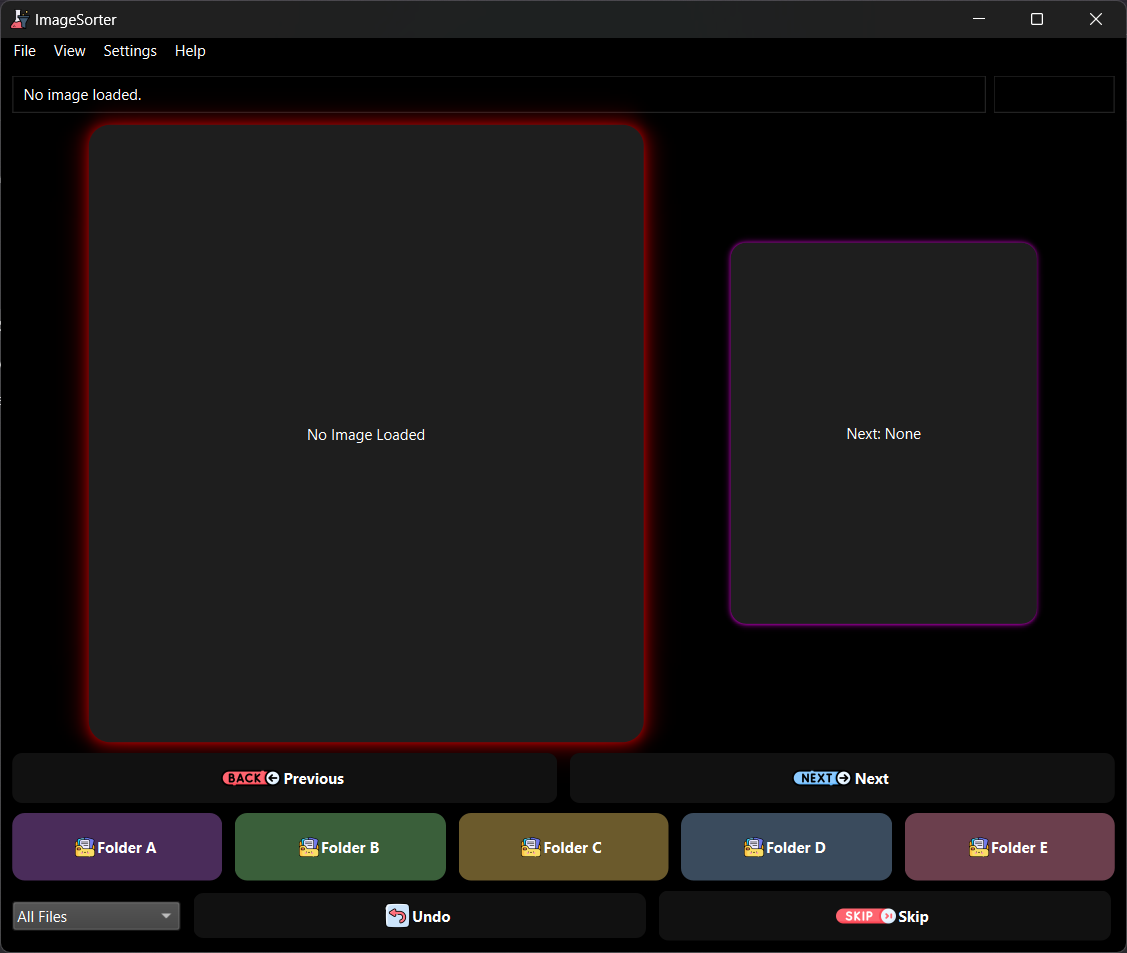
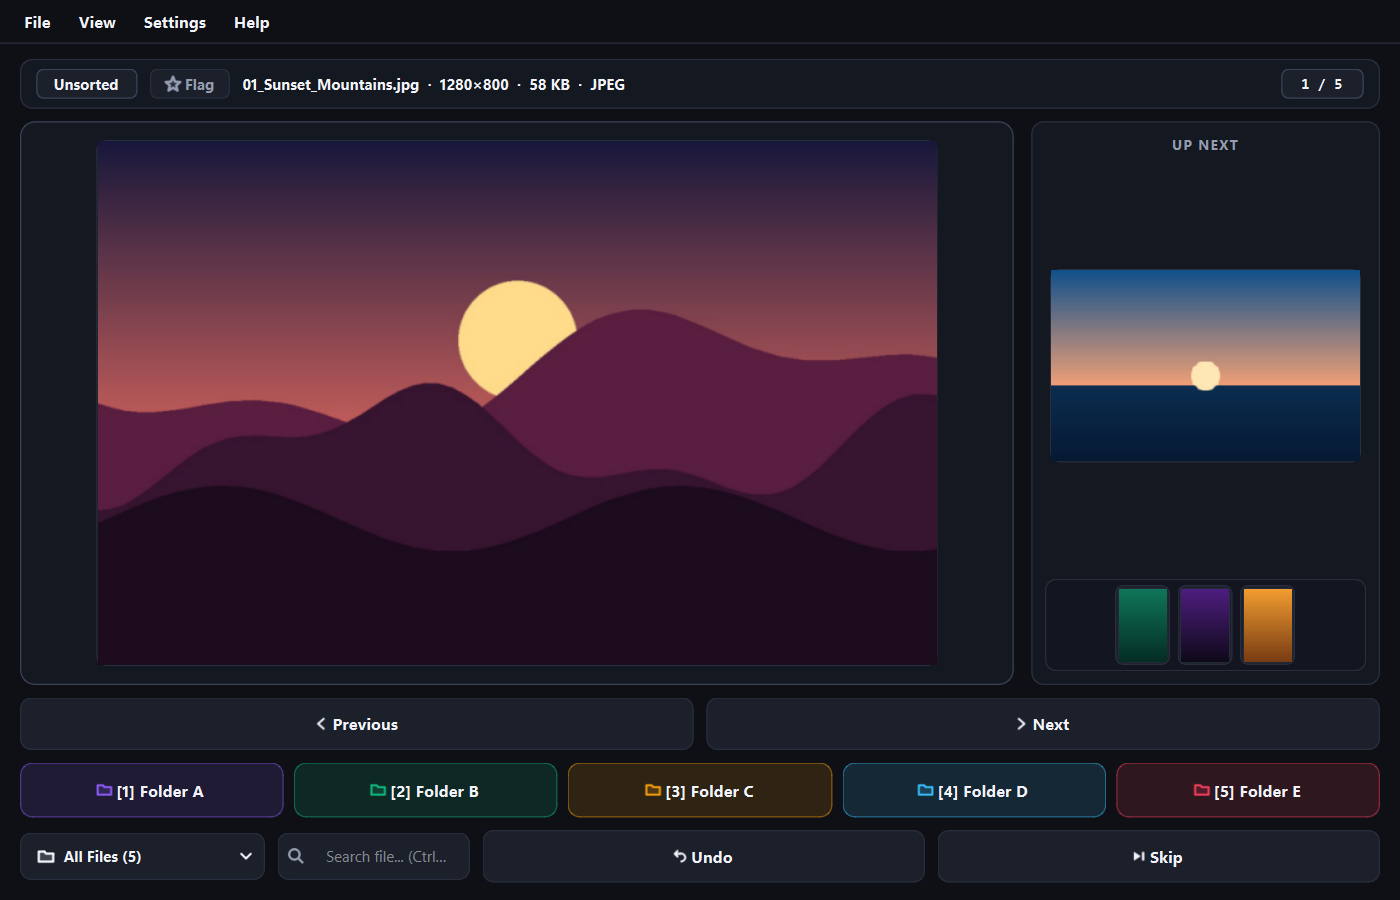
docs: perbarui readme agar bersih, sederhana, dan tambahkan preview screenshot studio terbaru (v2.1.30)

diff --git a/tests/test_markdown_and_version.py b/tests/test_markdown_and_version.py
@@ -29,12 +29,12 @@ class MarkdownVersionDialogTests(unittest.TestCase):
         shutil.rmtree(self._tmp, ignore_errors=True)
 
     def test_version_comparison_and_app_version(self):
-        self.assertEqual(app_main.APP_VERSION, "2.1.29-Stable")
-        self.assertEqual(app_main.AboutDialog.VERSION, "2.1.29-Stable")
-        self.assertTrue(is_newer_version("2.1.28-Stable", "2.1.29-Stable"))
-        self.assertTrue(is_newer_version("2.1.29-Beta", "2.1.29-Stable"))
-        self.assertFalse(is_newer_version("2.1.29-Stable", "2.1.28-Stable"))
-        self.assertFalse(is_newer_version("2.1.29-Stable", "1.0-Stable"))
+        self.assertEqual(app_main.APP_VERSION, "2.1.30-Stable")
+        self.assertEqual(app_main.AboutDialog.VERSION, "2.1.30-Stable")
+        self.assertTrue(is_newer_version("2.1.29-Stable", "2.1.30-Stable"))
+        self.assertTrue(is_newer_version("2.1.30-Beta", "2.1.30-Stable"))
+        self.assertFalse(is_newer_version("2.1.30-Stable", "2.1.29-Stable"))
+        self.assertFalse(is_newer_version("2.1.30-Stable", "1.0-Stable"))
 
     def test_github_markdown_html_renderer(self):
         t = resolve_studio_tokens()

diff --git a/core/config.py b/core/config.py
@@ -7,7 +7,7 @@ import sys
 from datetime import datetime
 
 APP_NAME = "ImageSorter"
-APP_VERSION = "2.1.29-Stable"
+APP_VERSION = "2.1.30-Stable"
 
 MIN_FOLDER_SLOTS = 3
 MAX_FOLDER_SLOTS = 9

diff --git a/README.md b/README.md
@@ -1,154 +1,89 @@
 <div align="center">
-  <h1 style="display: inline-flex; align-items: center; justify-content: center; gap: 10px;">
-    <img src="./assets/icons/app_icon.png" width="32" alt="App Icon" style="vertical-align: middle;">
-    Image Sorter
-  </h1>
-</div>
+  <img src="./assets/icons/app_icon.png" width="48" alt="Image Sorter Icon">
+  <h1>Image Sorter</h1>
+  <p><strong>Fast, modern media curation and rapid sorting desktop application for Windows.</strong></p>
 
-<div align="center">
-  <strong>A fast, modern desktop image sorting application with Rapid Move, 100,000+ file background scanning, drag &amp; drop, undo protection, and customizable themes.</strong>
-</div>
+  <p>
+    <a href="https://github.com/Zy0x/Image-Sorter/blob/main/LICENSE"><img src="https://img.shields.io/badge/license-MIT-blue.svg" alt="License"></a>
+    <a href="https://github.com/Zy0x/Image-Sorter/releases/latest"><img src="https://img.shields.io/github/v/release/Zy0x/Image-Sorter?sort=semver&color=orange" alt="Latest Release"></a>
+    <a href="#"><img src="https://img.shields.io/badge/python-3.8+-blue.svg" alt="Python"></a>
+    <a href="#"><img src="https://img.shields.io/badge/version-2.1.30--Stable-brightgreen.svg" alt="Version"></a>
+    <a href="https://github.com/Zy0x/Image-Sorter/stargazers"><img src="https://img.shields.io/github/stars/Zy0x/Image-Sorter?style=social" alt="Stars"></a>
+  </p>
 
-<br />
-
-<div align="center">
-  <!-- Badges -->
-  <a href="https://github.com/Zy0x/Image-Sorter/blob/main/LICENSE"><img src="https://img.shields.io/badge/license-MIT-blue.svg" alt="License"></a>
-  <a href="https://github.com/Zy0x/Image-Sorter/releases/latest"><img src="https://img.shields.io/github/v/release/Zy0x/Image-Sorter?sort=semver&color=orange" alt="Latest Release"></a>
-  <a href="#"><img src="https://img.shields.io/badge/python-3.8+-blue.svg" alt="Python Version"></a>
-  <a href="#"><img src="https://img.shields.io/badge/version-2.1.29--Stable-brightgreen.svg" alt="Version"></a>
-  <a href="https://github.com/Zy0x/Image-Sorter/stargazers"><img src="https://img.shields.io/github/stars/Zy0x/Image-Sorter?style=social" alt="Stars"></a>
-</div>
-
-<br />
-
-<div align="center">
-  <img src="assets/images/demo.gif" max-width="500" alt="Demo GIF">
+  <br />
+  <img src="assets/images/dark.png" width="850" alt="Image Sorter Dark Mode Interface" style="border-radius: 8px;">
 </div>
 
 ---
 
-## 📌 Description
+## 📌 Overview
 
-**Image Sorter** is a modern desktop application built with **PySide6** that lets you organize thousands—or hundreds of thousands—of images into custom folders with a single keystroke or mouse click. Featuring **Rapid Move** (hold-to-sort), zero-overwrite file protection, background directory scanning (`os.scandir`), EXIF auto-orientation, animated GIF/WebP playback, full-size zoom preview, and customizable themes, it is built for speed and reliability.
-
----
-
-## ✨ Key Features
-
-> * **One-Key & Rapid Move (`1`–`9` Dynamic Folder Slots)** – Configure between **3 and 9 destination folders** in *Folder Settings*. Press keys `1`–`9` (or click Folder 1–9) to move an image, or **hold** keys `1`–`9` / buttons to sort continuously at your configured interval (50–1000 ms).
-> * **100,000+ File Engine & Subfolder Scanning (`Ctrl+Shift+S`)** – Single-pass `os.scandir` background thread with optional recursive **Include Subfolders** (automatically excluding active destination folders), natural filename sorting (`IMG_2` before `IMG_10`), and $O(1)$ move/undo operations.
-> * **Instant LRU Pixmap Pre-Fetch Cache** – Pre-decodes neighboring media (`+1`, `+2`, `-1`, `+3`) in an in-memory LRU cache (`PixmapLRUCache`) for near-zero (~2.5 ms/step) navigation and Rapid Move latency.
-> * **Perceptual Duplicate & Similar Image Finder (`Ctrl+D`)** – 64-bit Difference Perceptual Hash (`dHash`) detects exact and near-duplicate images across different formats, resolutions, and compression levels, with a dedicated `Duplicates Only` filter and `DUP #` group badges.
-> * **Zero-Overwrite File Safety** – Automatically renames duplicate filenames (`photo (1).jpg`, `photo (2).jpg`) and protects original paths during Undo (`Ctrl+Z`).
-> * **Full-Size & Zoom Preview (`F`)** – Double-click the main image or press `F` to inspect details with **Smart Double-Click Zoom** (cursor-anchored toggle between Fit and 2.25×/100%), **Drag-to-Pan (`Drag Move`)**, cursor-anchored mouse-wheel zoom, and **Synced Video + Audio & Animated GIF/WebP/APNG Playback (`P` / `M` / `Space`, `[`, `]`)**.
-> * **Complete Modern Media & Video Support** – Native support for **Videos** (`.mp4`, `.webm`, `.mkv`, `.mov`, `.avi`, `.m4v`, `.wmv`) with synced sound (`M` to mute/unmute), Play/Pause (`P` or overlay buttons), **Animated formats** (`.gif`, `.webp`, `.apng`, `.avif`), **Apple & Design formats** (`.heic`, `.heif`, `.avif`, `.psd`, `.svg`, `.svgz`, `.tga`, `.icns`, `.cur`, `.tif`, `.bmp`, `.png`, `.jpg`, `.jfif`) with zero file locking on Windows and smart category filters (`All Images`, `All Videos`, `Animated / GIF`).
-> * **Fast Navigation & Filtering** – Filter by extension, toggle **Hide Moved Images (`Ctrl+H`)**, jump to any image number (`Ctrl+G`), or jump to start/end (`Home` / `End`).
-> * **Recycle Bin & Explorer Integration** – Move unwanted images to the Windows Recycle Bin (`Delete`) or reveal the current file in Explorer (`Ctrl+E`).
-> * **Built-In Shortcuts Guide (`F1`)** – On-button shortcut badges (`[1]`–`[5]`), empty-state quick-start guide, and a complete `Help → Keyboard Shortcuts & Guide` dialog.
+**Image Sorter** is a high-performance desktop media curation tool built with **PySide6**. Designed for photographers, designers, and collectors, it lets you organize tens of thousands of images and videos into customized destination folders with single-key taps, rapid hold-to-move, real-time search, and complete zero-overwrite file protection.
 
 ---
 
-## ⌨ Keyboard Shortcuts
+## ✨ Features
+
+- ⚡ **Rapid Move (`1`–`9`):** Move files to custom folders instantly with keys `1`–`9` or hold the keys/buttons to sort continuously.
+- 🔍 **Real-Time Search (`Ctrl+F`):** Instant filename search combined with active category filters.
+- 📁 **Smart Filter with Counts:** Categorized filters (`All Files`, `Images`, `Videos`, `GIFs`, `Duplicates`, `Flagged`) showing live file count badges.
+- 🎬 **Unified Media Support:** Smooth playback for Videos (`.mp4`, `.mkv`, `.webm`), Animations (`.gif`, `.webp`), and High-Res images (`.heic`, `.png`, `.jpg`, `.psd`).
+- 🔎 **Duplicate Finder (`Ctrl+D`):** Perceptual hashing (`dHash`) detects exact and visually similar files across formats.
+- 🛡 **Zero-Overwrite Safety:** Automatic duplicate renaming, full undo history (`Ctrl+Z`), and Recycle Bin integration (`Delete`).
+- 🎨 **Adaptive Themes:** Studio Slate Dark, Clean Light, and full custom theme editor.
+
+---
+
+## ⌨ Essential Shortcuts
 
 | Shortcut | Action |
 |---|---|
-| `1` – `5` (Press) | Move current image to Folder A – E |
-| `1` – `5` (Hold) | **Rapid Move** continuously to Folder A – E |
-| `←` (Left Arrow) | Previous image |
-| `→` (Right Arrow) | Next image |
-| `Space` | Skip to next **unmoved** image |
-| `Home` / `End` | Jump to first / last image |
-| `Ctrl+G` | Jump to specific image number |
-| `Ctrl+H` | Toggle **Hide Moved Images** |
-| `F` or Double-Click | Open Full-Size / Zoom Preview |
-| `P` | Play / Pause active Video or Animation |
-| `M` | Mute / Unmute video sound (saved automatically) |
-| `Ctrl+Z` | Undo last move |
-| `Ctrl+E` | Show current image in File Explorer |
-| `Delete` | Move current image to Windows Recycle Bin |
-| `Ctrl+O` | Import folder |
-| `F1` | Open Keyboard Shortcuts & Quick Guide |
+| `1` – `9` (Press / Hold) | Move / Rapid Move to Folder Slot |
+| `←` / `→` (Press / Hold) | Previous / Next media item |
+| `Space` | Skip current file |
+| `Ctrl + F` | Focus search bar (instant filename filter) |
+| `F` or Double-Click | Full-Size / Zoom Preview dialog |
+| `P` / `M` | Video Play/Pause & Mute toggle |
+| `Ctrl + Z` | Undo last move operation |
+| `Ctrl + H` | Toggle Hide Moved files |
+| `Ctrl + O` | Open / Import folder |
+| `F1` | Open full Keyboard Shortcuts guide |
 
 ---
 
-## 🔧 Requirements
+## 🚀 Quick Start
 
-Ensure you have Python >= 3.8 installed. Install dependencies using:
-
-```bash
-pip install -r requirements.txt
-```
-
----
-
-## 🚀 Getting Started
-
-### ✅ Option 1: Download & Install (Windows)
-
-1. Visit the [GitHub Releases](https://github.com/Zy0x/Image-Sorter/releases/latest) page.
-2. Download the latest `.exe` installer.
-3. Run the installer and choose between:
-   - **Standard Installation**: Installs to `Program Files` with desktop/Start Menu shortcuts (configuration automatically stored in `%LOCALAPPDATA%\ImageSorter\config`).
-   - **Portable Mode (`--portable`)**: Keeps all settings and logs inside the application folder — ideal for USB drives.
-
-### 💻 Option 2: Run from Source
-
+### 1. Run from Source
 ```bash
 git clone https://github.com/Zy0x/Image-Sorter.git
 cd Image-Sorter
 run.bat
 ```
-*(Or manually: `pip install -r requirements.txt` then `python main.py`)*
+
+*(Or manually with Python: `pip install -r requirements.txt` then `python main.py`)*
+
+### 2. Standalone Installer (Windows)
+Download the latest executable installer or portable build from [GitHub Releases](https://github.com/Zy0x/Image-Sorter/releases/latest).
 
 ---
-
-## 🎨 Themes & Customization
-
-Switch between **Light Mode**, **Dark Mode**, **System Default**, or **Custom Theme** (customizable background, text, button, hover, border, and menu tokens).
-
-## 🧩 Project Structure & Testing
-
-```
-Image Sorter/
-├── main.py                  # Application entrypoint & compatibility facade
-├── core/                    # Config, HistoryStore, file ops, MediaQueueModel, workers, hot-reload
-├── media/                   # Format detection, Pillow/OpenCV decoders, dHash duplicates, LRU cache, video controller
-├── ui/                      # Studio Slate tokens/QSS/vector icons, reusable widgets, dialogs/, main_window.py
-├── utils/                   # Backward-compatible utility shims
-├── tests/                   # Structured unit & headless UI test suite
-└── assets/                  # App icon & documentation screenshots
-```
-
-Run the automated test suite anytime with:
-
-```bash
-python -m unittest discover -s tests -v
-```
-
-## 📦 Documentation
-
-- [CHANGELOG.md](CHANGELOG.md) — Release history and changes.
-- [ROADMAP.md](ROADMAP.md) — Completed milestones and future roadmap.
-
-## 🌐 License
-
-MIT License — see [LICENSE](LICENSE) for details.
-
-## 👤 Author
-
-👤 **Zy0x**
-
-- GitHub: [@Zy0x](https://github.com/Zy0x)
-- Telegram: [@Thea](https://t.me/ThuandMuda)
 
 ## 📷 Screenshots
 
-| Light Mode | Dark Mode |
-|------------|-----------|
-| ![Light Mode](assets/images/light.png) | ![Dark Mode](assets/images/dark.png) |
+| Studio Dark | Clean Light |
+| :---: | :---: |
+| ![Studio Dark](assets/images/dark.png) | ![Clean Light](assets/images/light.png) |
 
 ---
 
-> ⚡ Organize your photos in seconds — effortlessly.  
-> **Made with ❤ using Python & PySide6**
+## 📦 Project Links
+
+- [Changelog](CHANGELOG.md) — Release notes and update history.
+- [Roadmap](ROADMAP.md) — Feature tracker and upcoming plans.
+- [License](LICENSE) — MIT License.
+
+---
+
+<div align="center">
+  <sub>Developed by <b><a href="https://github.com/Zy0x">Zy0x</a></b> • Built with Python & PySide6</sub>
+</div>

diff --git a/CHANGELOG.md b/CHANGELOG.md
@@ -2,6 +2,13 @@
 
 All notable changes to Image Sorter are listed here.
 
+## 2.1.30 — 2026-11-25
+
+### Documentation & Visual Polish — Clean Modern README & High-Resolution Studio Previews
+- **Streamlined Minimalist Documentation (`README.md`):** Completely restructured documentation to be clean, elegant, and straightforward without verbose technical jargon or text walls.
+- **Privacy-Safe High-Resolution Screenshots:** Regenerated official Dark Mode and Light Mode interface previews using procedurally generated artwork to showcase the modern Studio Slate design system, real-time search bar, and UP NEXT filmstrip with 100% user privacy protection.
+- **Refined Quick Start & Navigation Guide:** Reorganized essential keyboard shortcuts into an intuitive table highlighting Rapid Move, instant search (`Ctrl+F`), and multimedia controls.
+
 ## 2.1.29 — 2026-11-25
 
 ### Added & Refined — Structured Dynamic Smart Filter & Instant Real-Time Search Bar
